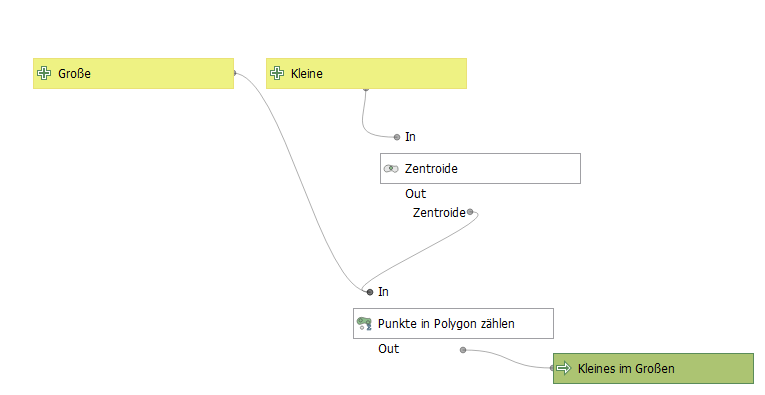
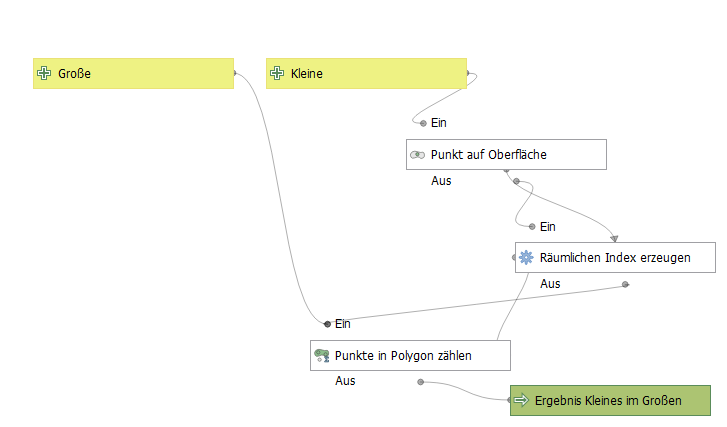
Update Modell _zaehle_Kleines_im_Grossen

diff --git a/README.md b/README.md
@@ -1,14 +1,14 @@
 # qgis-models-and-scripts
-Individuelle Modelle für den [QGIS Modeler](https://docs.qgis.org/3.10/de/docs/user_manual/processing/modeler.html) und Python [Funktionen](https://docs.qgis.org/3.10/de/docs/user_manual/working_with_vector/expression.html#function-editor)
+Individuelle Modelle für den [QGIS Modeler](https://docs.qgis.org/3.16/de/docs/user_manual/processing/modeler.html) und Python [Funktionen](https://docs.qgis.org/3.16/de/docs/user_manual/working_with_vector/expression.html#function-editor)
 
 ### Übersicht benötigte Funktionen je Modell
 |  Modell | benötigte Funktion(en)  |   
 |---|:---:|
 | [_analytisch_zusammenfuegen](#_analytisch_zusammenfuegen)  | [_all_fields](functions/_all_fields.py)<br>[_array_difference](functions/_array_difference.py) |   
 | [_Centerpoint_Koordinaten_erzeugen](#_Centerpoint_Koordinaten_erzeugen)  | :x:   |   
-| [_Join_mit_Rest](#_Join_mit_Rest)  | :x:   | 
-| [_Puffer_in_Projekt-Einheit](#_Puffer_in_Projekt-Einheit)  | [_all_fields](functions/_all_fields.py)  | 
-| [_zaehle_Kleines_im_Grossen](#_zaehle_Kleines_im_Grossen)  | :x:   | 
+| [_Join_mit_Rest](#_Join_mit_Rest)  | :x:   |
+| [_Puffer_in_Projekt-Einheit](#_Puffer_in_Projekt-Einheit)  | [_all_fields](functions/_all_fields.py)  |
+| [_zaehle_kleines_im_grossen](#_zaehle_kleines_im_grossen)  | :x:   | 
 
 
 ### Übersicht Modelle
@@ -29,6 +29,6 @@ Individuelle Modelle für den [QGIS Modeler](https://docs.qgis.org/3.10/de/docs/
 
 ![_Puffer_in_Projekt-Einheit](models/_Puffer_in_Projekt-Einheit.png "_Puffer_in_Projekt-Einheit")
 
-#### _zaehle_Kleines_im_Grossen
+#### _zaehle_kleines_im_grossen
 
-![_zaehle_Kleines_im_Grossen](models/_zaehle_Kleines_im_Grossen.png "_zaehle_Kleines_im_Grossen")
+![_zaehle_kleines_im_grossen](models/_zaehle_kleines_im_grossen.png "_zaehle_kleines_im_grossen")
